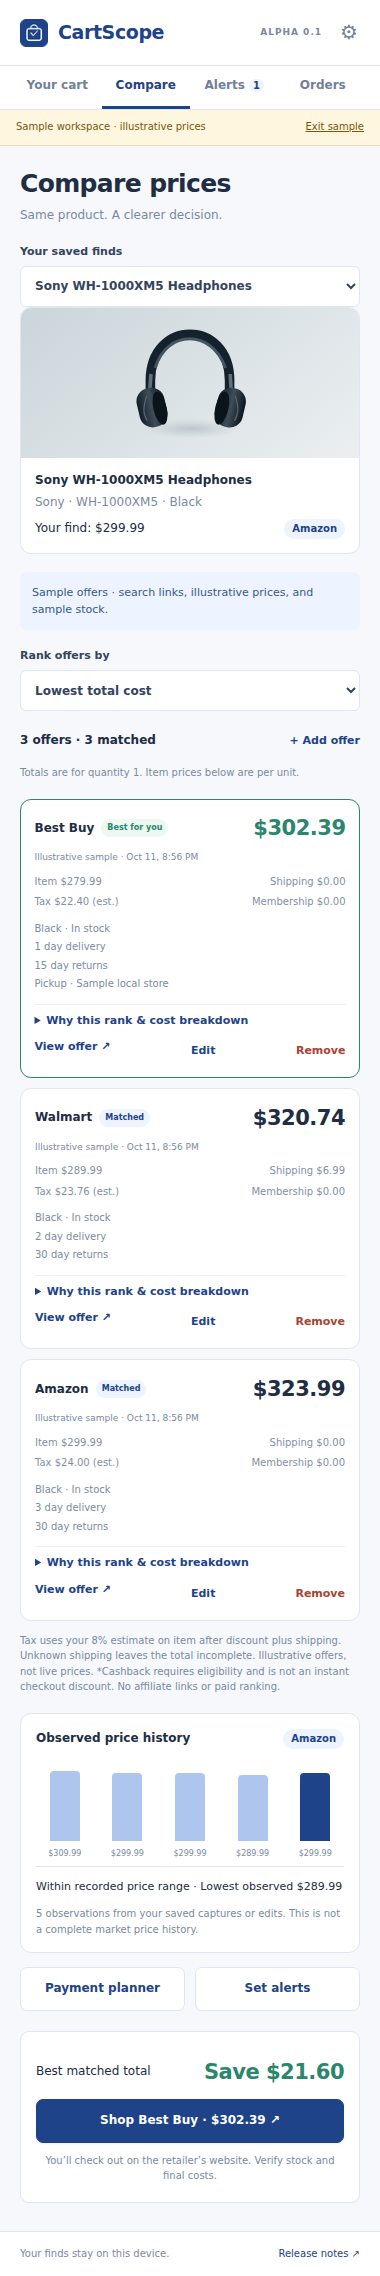
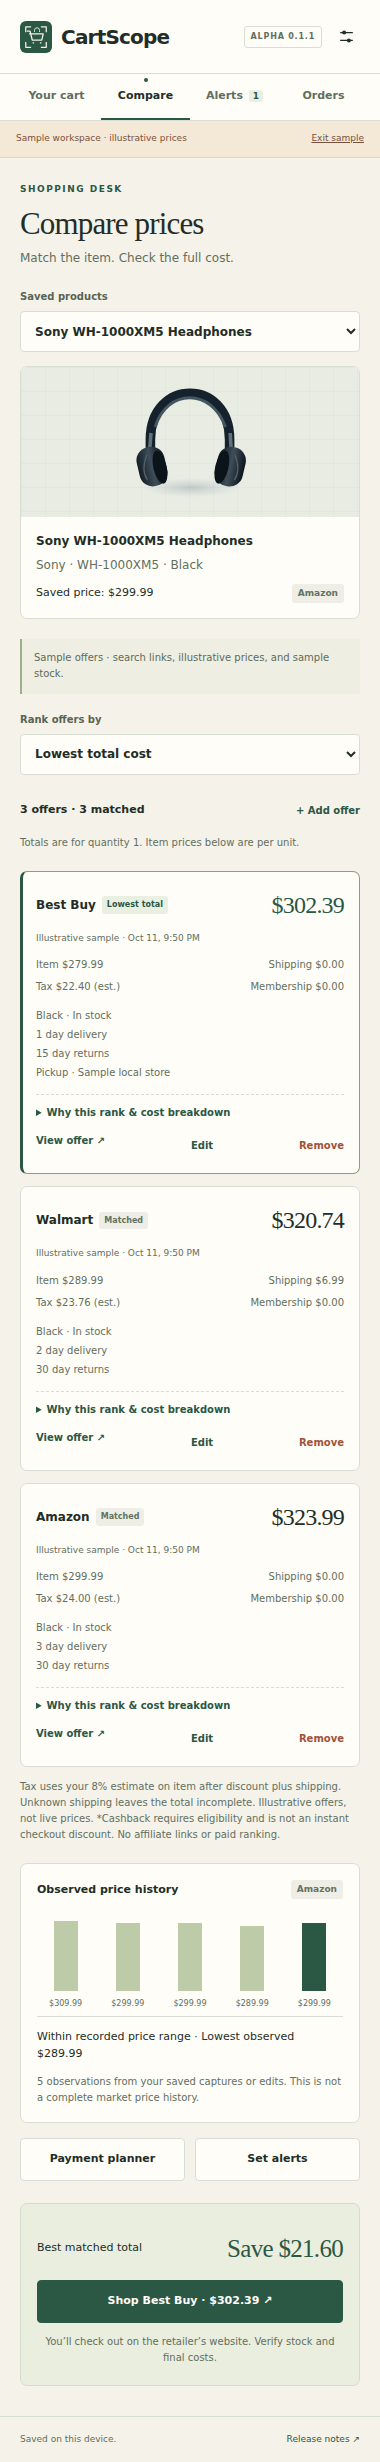
Record passing Chrome evidence and prepare the submission packet

diff --git a/demo.html b/demo.html
@@ -28,7 +28,7 @@
 
       <div class="install-block">
         <a class="primary" href="https://github.com/qarteu/cartscope/releases/tag/v0.1.1">Install the Chrome alpha <span aria-hidden="true">↗</span></a>
-        <p>Capture product pages with the extension.<br>This desk works with samples and manual entries.</p>
+        <p>Capture product pages with the extension.<br> This desk works with samples and manual entries.</p>
       </div>
       <div class="project-links">
         <a href="https://github.com/qarteu/cartscope/releases/tag/v0.1.1">Release notes <span aria-hidden="true">↗</span></a>

diff --git a/docs/VERIFICATION.md b/docs/VERIFICATION.md
@@ -1,28 +1,36 @@
 # Alpha verification record
 
-Verified October 11, 2026. [GitHub Actions run 38174277130](https://github.com/qarteu/cartscope/actions/runs/38174277130) passed on Ubuntu with **Chrome for Testing 151.0.7922.34**. The screenshot run tested runtime commit `cdbe4690ca0fa33ee993eab07556c7d39e8fe308`. The released tag points to `d015b676859685344a0ae00435ff98ce1b192efe`, which contains the same runtime and also passed [release-commit verification](https://github.com/qarteu/cartscope/actions/runs/38174633562).
+Verified October 11, 2026. [GitHub Actions run 38178003168](https://github.com/qarteu/cartscope/actions/runs/38178003168) passed on Ubuntu with **Chrome for Testing 151.0.7922.34**. It tested runtime commit `609ec4d0a751f3ed8a9dc9dc9a24e6d984f5b5f1`, including the redesigned Alpha **0.1.1** side panel and the newly deployed public demo. The browser explicitly checked the version on the installed extension, landing page, iframe, release-note link, and About screen to reject stale demo content.
 
[2 lines of base64/hex data omitted]
 
 | Check | Status | Evidence / reproduction |
 | --- | --- | --- |
-| Manifest, references, scoped permissions, and version | Passed | `npm run validate` |
-| Behavioral tests | 59 passed, 0 failed | `npm ci` then `npm test`; core, extraction, packaging, storage, and DOM integration |
-| Runtime ZIP, root manifest, CRCs, determinism, and checksum | Passed | `npm run package`; ZIP consumer tests and byte comparison with the hosted test artifact |
-| Alpha ZIP loaded in real Chrome | Passed, automated | Clean unpacked release directory loaded in Chrome for Testing; toolbar permission grant tested |
-| Active-tab capture and category rejection | Passed on HTTP fixtures | Access denied before toolbar click; permitted fixture capture returned Fixture Headphones / QA-100 / $99.99; category page rejected |
-| Cart, comparison, watches, orders, financing, backup, escaping | Passed in real Chrome | Part of 16 passed browser checks, 0 failed; [machine-readable report](CHROME_TEST_RESULTS.json) |
-| Panel layouts at 320, 380, and 480 pixels | Passed | Real Chrome document-width checks across cart, compare, alerts, orders, finance, and settings |
-| Static preview persistence and sample isolation | Passed | Fresh browser profile; edits survive reload and remain separate from extension data |
-| Published GitHub Pages demo | Passed | [Live demo](https://qarteu.github.io/cartscope/), HTTPS 200, four iframe navigation views, persisted quantity edits, and 390-pixel mobile layout |
-| Public personal repository | Passed | [qarteu/cartscope](https://github.com/qarteu/cartscope), public source and license |
-| GitHub release and downloaded asset | Passed | [Alpha v0.1.0](https://github.com/qarteu/cartscope/releases/tag/v0.1.0); downloaded ZIP/checksum match the tested package; 17 runtime files, root manifest and CRCs verified |
-| Live retailer field validation and ten reference users | Pending | [Feedback plan](FEEDBACK_PLAN.md); automated fixtures are not reference-user results |
+| Manifest, references, scoped permissions, and version | Passed | `npm run validate` checks package/lock/manifest parity and local runtime references. |
+| Behavioral tests | 65 passed, 0 failed | `npm ci` then `npm test`; core, extraction, packaging, publisher command contracts, storage, and DOM integration. The 12 DOM flow checks are included in this total. |
+| Runtime ZIP, root manifest, CRCs, determinism, and checksum | Passed | `npm run package`; actual unzip consumer checks, fixed timestamps, 18 runtime files, and byte comparison with the hosted-tested artifact. |
+| Alpha ZIP loaded in real Chrome | Passed, automated | Clean unpacked ZIP loaded in Chrome for Testing; current version and real toolbar permission grant checked. |
+| Active-tab capture and category rejection | Passed on HTTP fixtures | Capture denied before toolbar click; expected fixture product captured after the grant; category page rejected. |
+| Cart, comparison, watches, orders, financing, backup, escaping | Passed in real Chrome | Named flows in the 16-check [machine-readable Chrome report](CHROME_TEST_RESULTS.json), with no failures or uncaught JavaScript errors. |
+| Panel layouts at 320, 380, and 480 pixels | Passed | Document-width assertions across cart, compare, alerts, orders, finance, and settings in real Chrome. |
+| Static preview persistence and sample isolation | Passed | Fresh browser profile; quantity edit survives reload; preview and installed extension remain separate. |
+| Published GitHub Pages demo | Passed | HTTPS 200; explicit 0.1.1 checks; four iframe navigation views; quantity persistence; mobile width 390/390 pixels. |
+| Personal GitHub source | Passed | Public [qarteu/cartscope](https://github.com/qarteu/cartscope), source and license. |
+| Current GitHub release download | Pending publication | The tested Alpha 0.1.1 package is ready for publication. A downloaded release asset must match the tested hash before this gate closes. |
+| Live retailer field validation and ten reference users | Pending | [Feedback plan](FEEDBACK_PLAN.md); deterministic fixture results are not field observations or user responses. |
 
-The [Chrome report](CHROME_TEST_RESULTS.json) records all 16 checks, browser version, ZIP checksum, pre/post-toolbar capture responses, public demo response, and screenshot paths. The [DOM report](UI_TEST_RESULTS.json) separately records 12 application-flow checks using the actual UI, preview adapter, and background service. These are different test methods, not additional usability participants.
+The Chrome report records all 16 named checks, ZIP hash, browser version, pre/post-toolbar capture responses, current public-demo versions and screenshot paths. The [DOM report](UI_TEST_RESULTS.json) records 12 application flows through the actual UI, preview adapter, and background consumer. Those 12 checks are a subset of the 65 Node results, not additional tests or participants.
 
-[Visuals](visuals/README.md) are actual Chrome screenshots from the passing hosted run with labeled sample data. The desktop landing screenshot shows the initial cart; the mobile landing screenshot shows an edited quantity after the persistence test. Their sample prices, stock, and order statuses are illustrative.
+The [visuals](visuals/README.md) are unmodified Chrome screenshots from this passing run. They show labeled sample data. The desktop landing view shows the initial sample cart; the mobile view includes a quantity edit used to check persistence. Sample prices, stock, orders and observed history illustrate the flows and do not claim current retailer inventory or actual purchases.
 
-The hosted test resolves the earlier macOS sandbox startup blocker. It also exposed and fixed Chrome's native side-panel opening behavior, which skipped activeTab access: CartScope now handles the normal toolbar action and opens the panel from its click listener. No blanket host permission was added.
+## Reproduce the checks
 
-Remaining field scope: current retailer markup, manual installation on users' operating systems, and native desktop notification delivery have not been verified by these automated checks. Automatic retailer discovery, unattended polling, carrier synchronization, and provider-backed financing remain planned. Invitations and actual user feedback remain pending real participants.
+Use Node.js 22 or newer, install dependencies with `npm ci`, then run `npm run check`. For an isolated browser run, install Chrome with `npx playwright install --with-deps chromium`, then run `PUBLIC_DEMO_URL=https://qarteu.github.io/cartscope/ npm run test:browser` on a supported machine. The GitHub workflow runs the same commands on Ubuntu. The browser test reads the versioned ZIP generated by packaging, unpacks it into a new directory, and loads it into disposable browser profiles; it does not use a user's personal browser profile.
+
+Publisher tests execute the actual publication script with isolated mock command-line clients. They verify current-version tag/asset/note selection, identical-asset verification on a repeated publication, and rejection of conflicting assets without replacement. Actual publication is separately verified through GitHub and a downloaded asset. Existing tags and release assets are never overwritten by the publisher.
+
+## Remaining scope and history
+
+Current retailer markup, manual installation on reference users' operating systems, and native desktop notification delivery still need field validation. Automatic offer discovery, unattended price polling, carrier synchronization, provider-backed financing, account synchronization, and Chrome Web Store distribution remain planned. The invitation is a draft; recruitment, delivery, and user feedback remain pending real participants.
+
[1 lines of base64/hex data omitted]

diff --git a/docs/SUBMISSION.md b/docs/SUBMISSION.md
@@ -1,14 +1,14 @@
 # CartScope Alpha submission
 
-**Team:** Kartik Malunjkar (System Architect / Release Train Engineer), Jake Clevenger (Product Manager / Product Owner), Eashan (Business Owner / Scrum Coach).
+Use [Canvas submission copy](CANVAS_SUBMISSION.md) for the text to paste into Canvas. [The illustrated report](FINAL_SUBMISSION.pdf) includes screenshots, the feature-to-test matrix, and all named Chrome checks.
 
-1. **Version-controlled repository:** [qarteu/cartscope](https://github.com/qarteu/cartscope). [Release notes](../CHANGELOG.md) and [installation/use instructions](../README.md) are included.
-2. **Downloadable Alpha 0.1:** [GitHub release and ZIP](https://github.com/qarteu/cartscope/releases/tag/v0.1.0). Download `cartscope-alpha-0.1.0.zip`, unzip it, and select the folder containing `manifest.json` in Chrome’s Load unpacked dialog.
-3. **Preview announcement and feedback:** [Email template](ALPHA_EMAIL.md), [quantitative + qualitative feedback form](https://github.com/qarteu/cartscope/issues/new?template=alpha-feedback.yml), [test protocol](FEEDBACK_PLAN.md), and [R01–R10 roster](REFERENCE_USERS.csv). The email is prepared; sending remains pending ten real agreed recipients. No send or feedback evidence is invented.
-4. **Agile tracker:** [GitHub Issues](https://github.com/qarteu/cartscope/issues), [current progress, next sprint and backlog](SPRINT_BOARD.md), and [published issue links](PUBLISHED_ISSUES.md).
+1. **Personal repository:** [qarteu/cartscope](https://github.com/qarteu/cartscope), with [release notes](../CHANGELOG.md) and [installation/use instructions](../README.md).
+2. **Working Alpha 0.1.1 ZIP:** [Release page](https://github.com/qarteu/cartscope/releases/tag/v0.1.1) and [direct runtime download](https://github.com/qarteu/cartscope/releases/download/v0.1.1/cartscope-alpha-0.1.1.zip). Extract this ZIP and use Chrome’s Load unpacked on its root manifest folder. The original 0.1.0 release remains available.
+3. **Announcement and feedback:** [Email template](ALPHA_EMAIL.md), [ratings and written-feedback form](https://github.com/qarteu/cartscope/issues/new?template=alpha-feedback.yml), [task protocol](FEEDBACK_PLAN.md), and [reference roster](REFERENCE_USERS.csv). The invitation is prepared but not sent; real recipients and responses remain pending.
+4. **Agile tracker:** [GitHub Issues](https://github.com/qarteu/cartscope/issues), [progress, next sprint and backlog](SPRINT_BOARD.md), and [published story links](PUBLISHED_ISSUES.md). GitHub Issues supplies the assignment’s similar-tracker option.
 
-**Interactive demo:** [CartScope on GitHub Pages](https://qarteu.github.io/cartscope/). No AWS account or configuration is required.
+**Open the working demo:** [CartScope on GitHub Pages](https://qarteu.github.io/cartscope/). It requires no AWS setup.
 
-**Visuals:** [Actual Chrome screenshots](visuals/README.md) show the implementation based on the UniCart prototype. [Verification](VERIFICATION.md) records 59 passing behavioral tests and 16 passing Chrome checks, including the packaged extension and live demo.
+**All-in-one attachment:** [Submission bundle](https://github.com/qarteu/cartscope/releases/download/v0.1.1/cartscope-submission-0.1.1.zip) contains the extension ZIP, report, Canvas copy, screenshots, test records, board and email template. Install the inner runtime ZIP, not the outer submission bundle.
 
-**Submission limits:** The preview uses labeled examples and user-entered observations. Automatic live retailer feeds and shipment synchronization remain backlog items. The ZIP passed automated installation in Chrome for Testing. Ten-user invitations and actual feedback remain pending real participants.
+[Verification](VERIFICATION.md) records 65 passing Node tests, including 12 DOM flows, and 16 real Chrome checks. [The screenshots](visuals/README.md) show actual Chrome output with labeled sample data. Current retailer markup, native OS notification delivery and tester installation still need field validation. Automatic discovery, unattended polling, carrier updates, provider-backed financing and account synchronization remain planned.

diff --git a/docs/SPRINT_BOARD.md b/docs/SPRINT_BOARD.md
@@ -2,7 +2,7 @@
 
 This repository board is an issue-tracker equivalent for the alpha submission. It records implemented scope, release gates, and the next sprint's user stories. [Issue records](issues.json) seed the matching GitHub issues at publication. Linked GitHub issues provide the discussion and feedback history. No existing external Trello URL was verified in the inspected CartScope files/chats; reconcile an existing board if the team supplies it.
 
-**Release:** Alpha 0.1.0  
+**Release:** Alpha 0.1.1 (design patch; original 0.1.0 retained)  
 **Team:** Kartik Malunjkar, Jake Clevenger, Eashan  
 **Responsibilities:** Kartik owns architecture/releases, Jake owns product/backlog, and Eashan owns business/research and Scrum. Per-story owners in issue records are proposed for confirmation at sprint planning.  
 **Sprint dates:** To be scheduled by the team
@@ -25,6 +25,8 @@ This repository board is an issue-tracker equivalent for the alpha submission. I
 | CS-10 | Built | As a reference user, I want install instructions and a feedback route so I can test the alpha. | README, release notes, runtime ZIP/checksum, issue forms, quantitative/qualitative protocol, draft invitation, unassigned roster; publication is recorded below; actual participation remains pending. |
 | CS-21 | Built | As a reviewer, I want a browser demo so I can explore CartScope without installing it. | Same static interface; browser localStorage; labeled sample mode; manual entry; extension-only capture clearly explained; no AWS setup. |
 
+| CS-22 | Built | As a reviewer, I want an original shopping desk and clear evidence so I can demonstrate the Alpha. | Custom CartScope mark, paper/forest styling, practical copy, responsive landing; current-version Chrome checks and unmodified screenshots; Canvas write-up and illustrated test matrix. |
+
 ## Release and submission gates
 
 | ID | Status | Action | Evidence required to close |
@@ -33,6 +35,7 @@ This repository board is an issue-tracker equivalent for the alpha submission. I
 | REL-02 | Done | Publish source to the personal GitHub account `qarteu` | Repository resolves at `https://github.com/qarteu/cartscope`; version-controlled source and license visible. |
 | REL-03 | Done | Publish GitHub release `v0.1.0`, ZIP, checksum and release notes | Verified release commit/tag; release page resolves; asset downloads and checksum matches; unpacked installation evidenced by REL-01. |
 | REL-08 | Done | Publish the static preview on GitHub Pages | Public demo URL resolves and main preview flows pass a smoke test. |
+| REL-09 | Pending publication | Publish the separate 0.1.1 design patch and final submission packet | Downloaded runtime bytes match the current Chrome-tested ZIP; PDF and Canvas write-up use current evidence; original 0.1.0 tag/assets preserved. |
 | REL-04 | Pending participants | Recruit and assign ten consenting reference users | Private contact roster plus R01–R10 status entries; no fabricated identities. |
 | REL-05 | Pending participants | Send the personalized preview announcement | Actual send dates and private delivery evidence; [draft email](ALPHA_EMAIL.md) alone does not close this task. |
 | REL-06 | Pending feedback | Collect and triage quantitative and qualitative feedback | Actual issue/reply records and a readout with denominators and source labels. |

diff --git a/docs/visuals/README.md b/docs/visuals/README.md
@@ -1,15 +1,15 @@
 # Actual Chrome screenshots
 
-These images were captured by Playwright in Chrome for Testing **151.0.7922.34** from [verification run 38174277130](https://github.com/qarteu/cartscope/actions/runs/38174277130), which completed successfully for commit `cdbe4690ca0fa33ee993eab07556c7d39e8fe308` on October 11, 2026.
+These images were captured by Playwright in Chrome for Testing **151.0.7922.34** from [verification run 38178003168](https://github.com/qarteu/cartscope/actions/runs/38178003168), which completed successfully for commit `609ec4d0a751f3ed8a9dc9dc9a24e6d984f5b5f1` on October 11, 2026.
 
-The seven extension views come from the actual Alpha 0.1.0 release ZIP unpacked and loaded into a disposable Chrome profile. The desktop and mobile landing-page images come from the [published browser demo](https://qarteu.github.io/cartscope/). They show labeled sample data; the mobile landing view includes a quantity edit used to check persistence and the resulting budget change.
+The seven extension views come from the actual Alpha 0.1.1 release ZIP unpacked and loaded into a disposable Chrome profile. They show the paper, ink, and forest shopping desk design with the shared CartScope logo. The desktop and mobile landing-page images come from the [published browser demo](https://qarteu.github.io/cartscope/), whose landing, embedded application, and About badges were verified as version 0.1.1. They show labeled sample data; the mobile landing view includes a quantity edit used to check persistence and the resulting budget change.
 
 **Verification scope:** the run's browser report records 16 checks passed, zero failed, and no uncaught JavaScript errors. It covers local extension storage, core shopping flows, hostile-input handling, user-initiated active-tab capture against deterministic local product fixtures, panel widths, and the public demo. These screenshots and tests do not establish compatibility with every live retailer's changing markup or a live offer feed.
 
 Every individual PNG is copied byte-for-byte from the hosted run artifact, with its SHA-256 and dimensions recorded in the [capture manifest](render-manifest.json). The overview places the five complete primary screens together with labels. It does not retouch the UI, remove overlays, or invent content. No runtime CSS changes or print-renderer substitutions were used for these Chrome screenshots.
 
 - [Five-screen overview](cartscope-overview.png)
-- [Review item](review.png)
+- [Review and edit item](review.png)
 - [Saved cart](cart.png)
 - [Offer comparison and price history](compare.png)
 - [Notifications](notifications.png)

diff --git a/docs/RELEASE_CHECKLIST.md b/docs/RELEASE_CHECKLIST.md
@@ -12,12 +12,15 @@
 ## GitHub publication
 
 - [x] Publish the repository as `qarteu/cartscope`.
-- [x] Create tag `v0.1.0` at the verified release commit.
-- [x] Publish a release with the 0.1.0 notes from `CHANGELOG.md`, installation instructions, and known limits.
-- [x] Upload `cartscope-alpha-0.1.0.zip` and its `.sha256` file as release assets.
-- [x] Verify the links in `README.md` and `ALPHA_EMAIL.md` resolve.
+- [ ] Create tag `v0.1.1` at the verified release commit.
+- [ ] Publish a release with the 0.1.1 notes from `CHANGELOG.md`, installation instructions, and known limits.
+- [ ] Upload `cartscope-alpha-0.1.1.zip` and its `.sha256` file as release assets.
+- [ ] Verify the links in `README.md` and `ALPHA_EMAIL.md` resolve.
 - [x] Publish the static browser preview on GitHub Pages and verify its public URL; no AWS setup is needed.
 - [x] Create/link implementation, next-sprint, and release-gate issues; synchronize their statuses with `SPRINT_BOARD.md`.
+
+- [ ] Publish and download-check the final submission bundle and illustrated report.
+- [ ] Verify original 0.1.0 tag and assets remain unchanged.
 
 ## Reference-user preview
 
@@ -30,7 +33,7 @@
 ## Attach to the submission
 
 1. Repository URL: `https://github.com/qarteu/cartscope`.
-2. Downloaded working alpha ZIP: `cartscope-alpha-0.1.0.zip` from the GitHub release.
+2. Downloaded working alpha ZIP: `cartscope-alpha-0.1.1.zip` from the GitHub release.
 3. The actual sent announcement template, plus private delivery evidence if required. The current `ALPHA_EMAIL.md` is a draft until sent.
 4. Tracker URL: the repository's [Sprint board](https://github.com/qarteu/cartscope/blob/main/docs/SPRINT_BOARD.md) and linked GitHub issues; include the original Trello URL after reconciliation if the course requires it.
 

diff --git a/docs/FEEDBACK_PLAN.md b/docs/FEEDBACK_PLAN.md
@@ -34,7 +34,7 @@ For T5, do not fabricate a live retailer change. If price and availability are u
 | Field | Type / allowed values | Meaning |
 | --- | --- | --- |
 | `reference_id` | R01–R10 or independent tester | Assigned invitation identifier |
-| `release_version` | Text, e.g. 0.1.0 | Version actually used |
+| `release_version` | Text, e.g. 0.1.1 | Version actually used |
 | `chrome_version` | Text | Chrome version from About Chrome |
 | `operating_system` | Text | System and version if known |
 | `test_mode` | Chrome extension / browser demo / both | Distinguishes extension-only capture/install testing from static preview testing |
